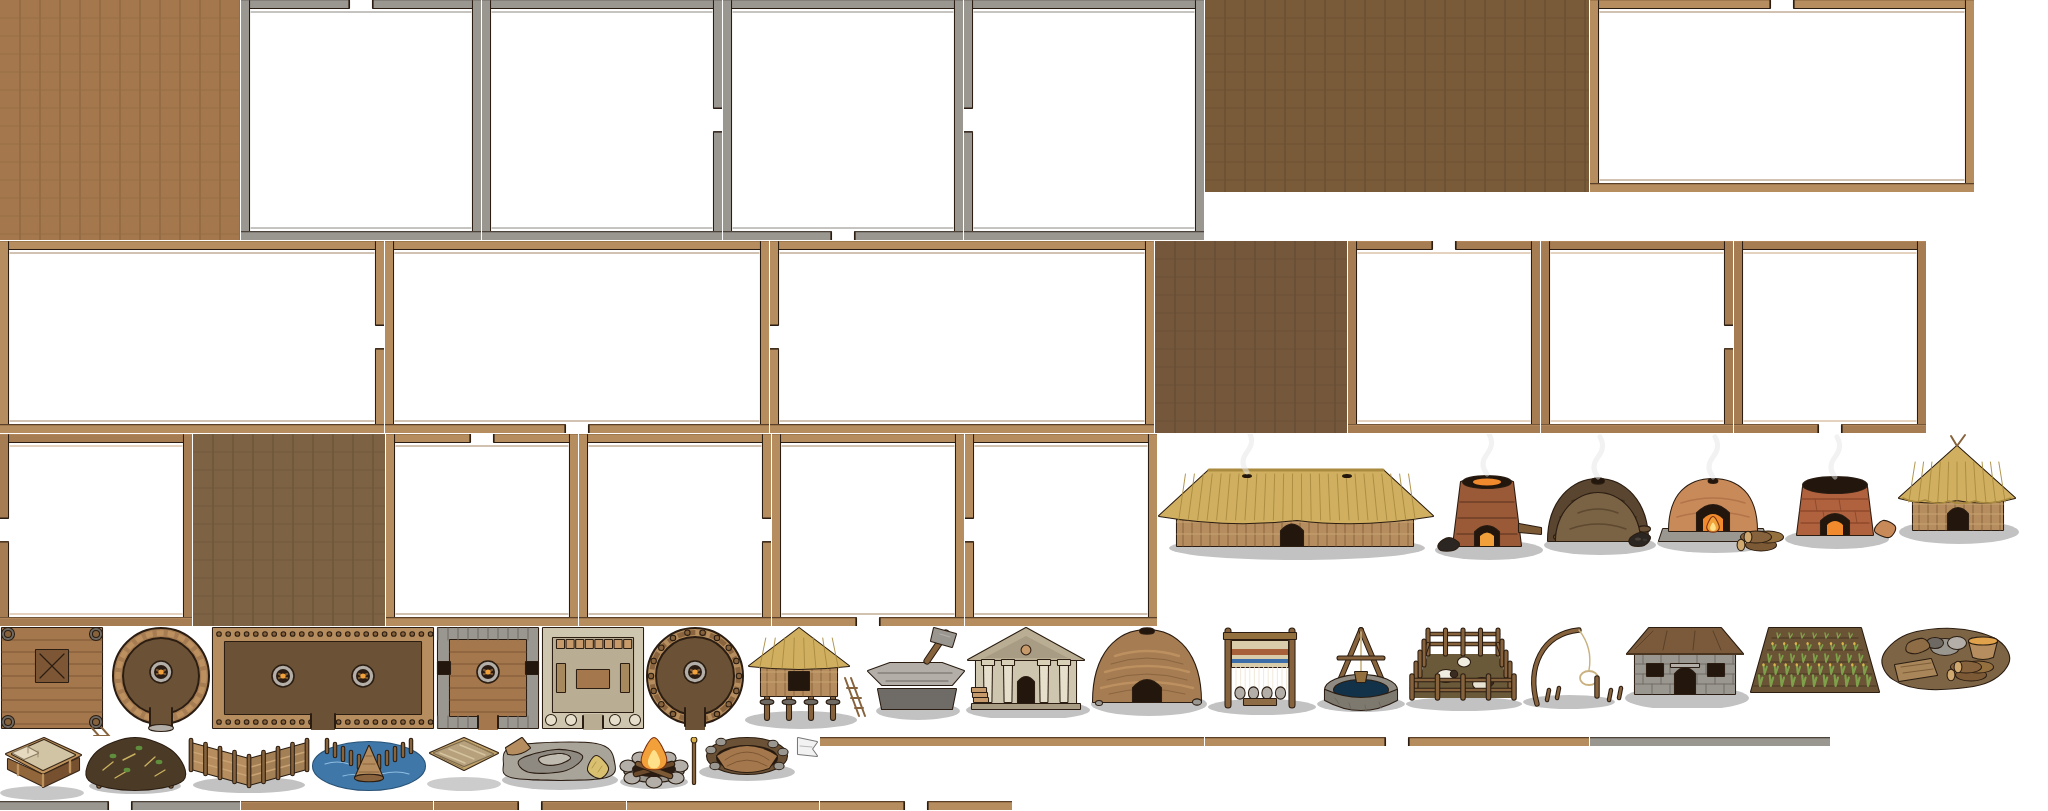
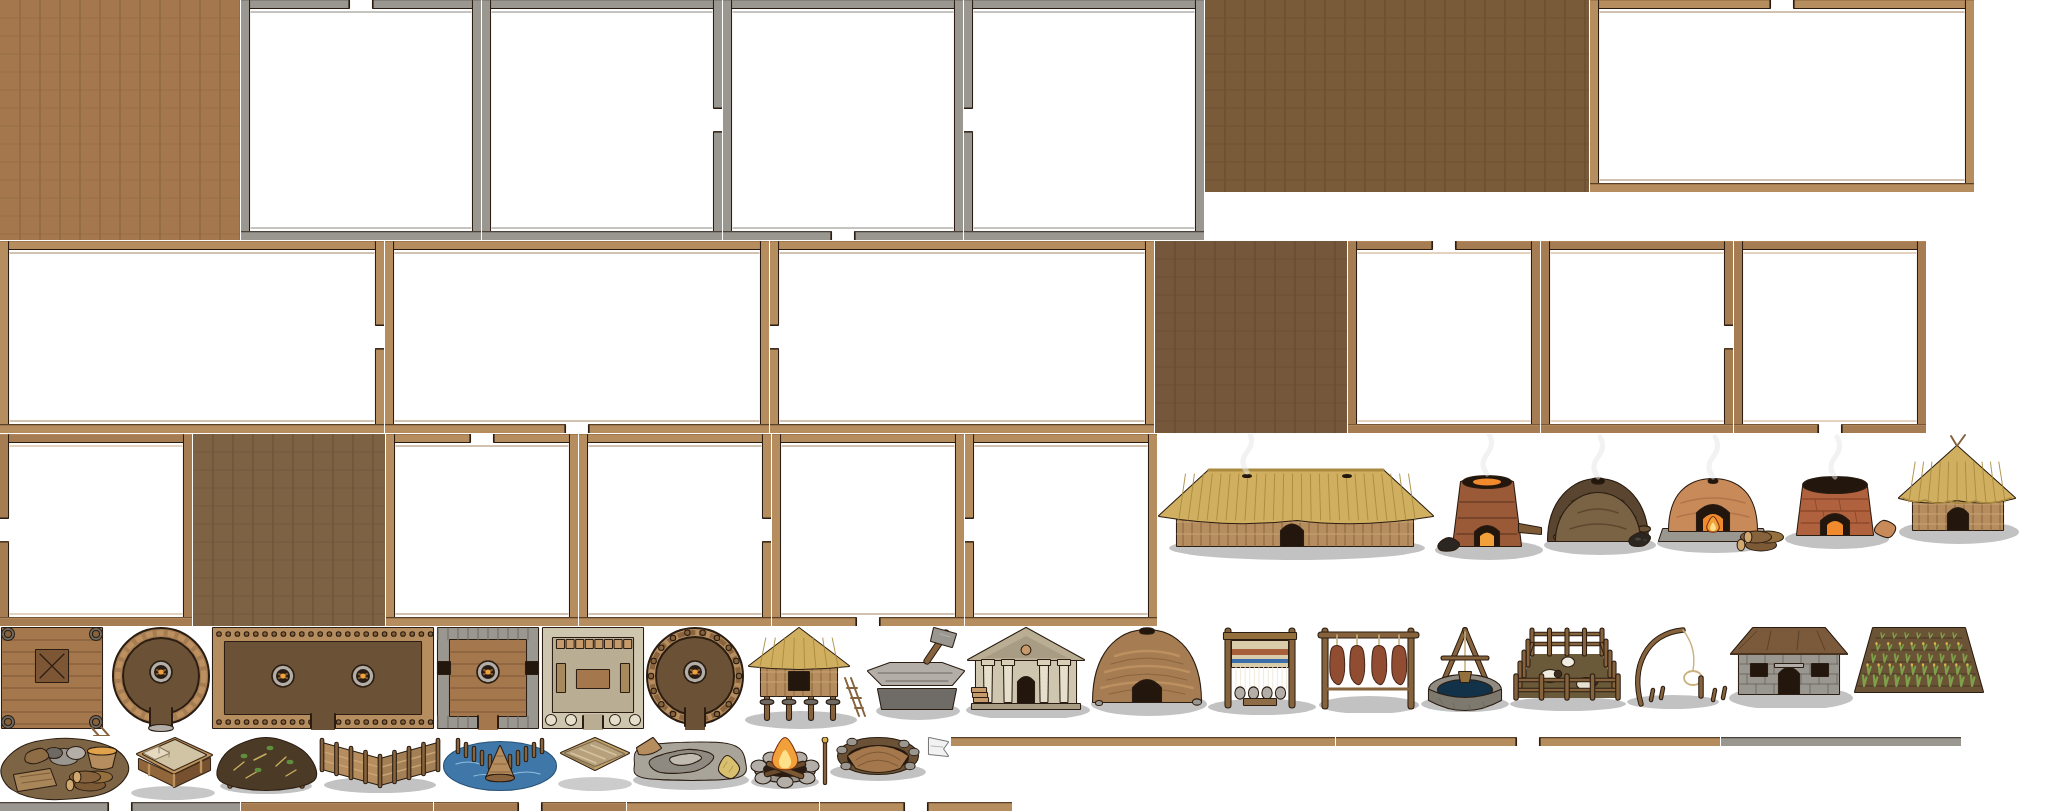
m15: preserve meat and fish on a working drying rack

diff --git a/src/sim/__tests__/preserving.test.ts b/src/sim/__tests__/preserving.test.ts
@@ -1,0 +1,84 @@
+import { describe, expect, it, vi } from 'vitest';
+import { Brain } from '../ai/Brain.ts';
+import { Simulation } from '../core/Simulation.ts';
+import { Building, BUILDINGS } from '../entities/Building.ts';
+import { Inventory, ITEMS } from '../entities/Item.ts';
+import { toCheckpointRecord } from '../persistence/CheckpointRecords.ts';
+
+function fixture() {
+  const sim = new Simulation({ seed: 'drying-rack', world: { width: 48, height: 48 },
+    population: { bands: 1, peoplePerBand: 4 } });
+  sim.possessFirst(); const person = sim.player!;
+  person.knownTech.add('preserving'); person.skills.cook = 100;
+  person.needs.hunger = person.needs.thirst = person.needs.cold = person.needs.fatigue = 0;
+  for (const [item, count] of person.inventory.entries()) person.inventory.remove(item, count);
+  const rack = new Building(BUILDINGS.drying_rack!, Math.floor(person.x), Math.floor(person.y), person.bandId, sim.ids);
+  rack.complete = true; rack.durability = rack.def.workTicks;
+  sim.buildings.push(rack); sim.buildingsById.set(rack.id, rack); sim.buildingHash.insert(rack);
+  return { sim, person, rack };
+}
+
+describe('drying on a physical rack', () => {
+  it('keeps the same food nutrition while losing ten times less to spoilage', () => {
+    const inventory = new Inventory();
+    for (const [raw, dried] of [['meat', 'dried_meat'], ['fish', 'dried_fish']] as const) {
+      expect(ITEMS[dried]!.spoilTicks).toBe(ITEMS[raw]!.spoilTicks * 10);
+      expect(ITEMS[dried]!.nutrition).toBe(ITEMS[raw]!.nutrition);
+      inventory.add(raw, 100); inventory.add(dried, 100);
+    }
+    const loss = new Map(inventory.spoil(240, () => 1, false));
+    expect(loss.get('dried_meat')).toBeCloseTo(loss.get('meat')! / 10);
+    expect(loss.get('dried_fish')).toBeCloseTo(loss.get('fish')! / 10);
+  });
+
+  it('dries meat and fish at the rack, consumes each input once and persists the station', () => {
+    const { sim, person, rack } = fixture();
+    for (const [raw, dried] of [['meat', 'dried_meat'], ['fish', 'dried_fish']] as const) {
+      person.inventory.add(raw, 2);
+      expect(sim.order(person, 'craft', { recipeId: dried, buildingId: rack.id })).toBe(true);
+      for (let tick = 0; tick < 1000 && person.inventory.count(dried) < 2; tick++) {
+        person.needs.hunger = person.needs.thirst = 0; sim.step();
+      }
+      expect(person.inventory.count(dried)).toBe(2);
+      expect(person.inventory.count(raw)).toBe(0);
+    }
+    const loaded = Simulation.fromCheckpointRecord(JSON.parse(JSON.stringify(toCheckpointRecord(sim))));
+    expect(loaded.buildingsById.get(rack.id)?.def.id).toBe('drying_rack');
+    expect(loaded.peopleById.get(person.id)?.inventory.count('dried_fish')).toBe(2);
+  });
+
+  it('does not autonomously preserve until spoilage is believed and requires a reachable station', () => {
+    const { sim, person, rack } = fixture();
+    person.isPlayer = false; person.action = 'idle'; person.order = null;
+    person.inventory.add('meat', 2);
+    const brain = (sim as unknown as { brain: Brain }).brain, score = brain.score.bind(brain);
+    let checked = false;
+    const spy = vi.spyOn(brain, 'score').mockImplementation((actor, ctx) => {
+      if (actor !== person || checked) return score(actor, ctx);
+      checked = true;
+      expect(score(actor, ctx).found.recipe).not.toBe('dried_meat');
+      person.beliefs.learn('spoils:meat', 1, 1, 'seen', sim.time.tick);
+      expect(score(actor, ctx).found.recipe).toBe('dried_meat');
+      expect(score(actor, ctx).found.craftStation).toBe(rack);
+      rack.durability = 0;
+      expect(score(actor, ctx).found.recipe).not.toBe('dried_meat');
+      rack.durability = rack.def.workTicks;
+      rack.complete = false;
+      expect(score(actor, ctx).found.recipe).not.toBe('dried_meat');
+      return score(actor, ctx);
+    });
+    try { for (let tick = 0; tick < 30 && !checked; tick++) sim.step(); expect(checked).toBe(true); }
+    finally { spy.mockRestore(); }
+  });
+
+  it('reports a ruined rack before consuming the raw food', () => {
+    const { sim, person, rack } = fixture(); person.inventory.add('meat', 2);
+    rack.durability = 0;
+    expect(sim.order(person, 'craft', { recipeId: 'dried_meat', buildingId: rack.id })).toBe(true);
+    sim.step();
+    expect(person.inventory.count('meat')).toBe(2);
+    expect(person.inventory.count('dried_meat')).toBe(0);
+    expect(sim.interruptions.some(notice => notice.personId === person.id &&
+      notice.reason === 'no_station_drying_rack')).toBe(true);
+  });
+});

diff --git a/e2e/preserving.spec.ts b/e2e/preserving.spec.ts
@@ -1,0 +1,44 @@
+import { mkdirSync } from 'node:fs';
+import { test, expect } from '@playwright/test';
+
+test('a physical drying rack makes durable food and appears in the world', async ({ page }) => {
+  const errors: string[] = []; page.on('pageerror', error => errors.push(error.message));
+  await page.goto('/?seed=e2e-preserving&skipIntro=1&defaults=1&lang=es');
+  await expect(page.locator('.hud-clock')).not.toBeEmpty({ timeout: 15_000 });
+  await page.locator('.hud-button', { hasText: 'Pausa' }).click();
+  await page.waitForFunction(() => !!(window as any).__dynasty?.renderer?.art);
+  const made = await page.evaluate(() => {
+    const d = (window as any).__dynasty, sim = d.sim, person = sim.player;
+    person.knownTech.add('preserving'); sim.knownTech.add('preserving'); person.skills.cook = 100;
+    sim.time.tick = sim.config.time.ticksPerDay / 2;
+    let rack: any = null;
+    for (let y = Math.floor(person.y) - 5; y <= person.y + 5 && !rack; y++) {
+      for (let x = Math.floor(person.x) - 5; x <= person.x + 5 && !rack; x++) {
+        rack = sim.place('drying_rack', x, y, person.bandId);
+      }
+    }
+    if (!rack) throw new Error('No rack site');
+    rack.complete = true; rack.durability = rack.def.workTicks;
+    person.x = rack.centerX; person.y = rack.centerY;
+    person.targetX = person.x; person.targetY = person.y;
+    person.inventory.add('meat', 2); person.inventory.add('fish', 2);
+    person.needs.cold = person.needs.fatigue = 0;
+    for (const recipeId of ['dried_meat', 'dried_fish']) {
+      if (!sim.order(person, 'craft', { recipeId, buildingId: rack.id })) throw new Error(sim.lastRefusal);
+      for (let tick = 0; tick < 1000 && person.inventory.count(recipeId) < 2; tick++) {
+        person.needs.hunger = person.needs.thirst = 0; sim.step();
+      }
+    }
+    d.camera.zoom = 5; d.camera.snapTo(rack.centerX, rack.centerY); d.camera.following = false;
+    d.renderer.fogEnabled = false; d.renderer.interpolator.clear();
+    return { meat: person.inventory.count('dried_meat'), fish: person.inventory.count('dried_fish') };
+  });
+  expect(made).toEqual({ meat: 2, fish: 2 });
+  await page.locator('.hud-tab[data-tab="kit"]').click();
+  await expect(page.locator('.hud-panel')).toContainText('Carne seca');
+  await expect(page.locator('.hud-panel')).toContainText('Pescado seco');
+  const shots = process.env.DYNASTY_CAPTURE_DIR ?? 'artifacts/screenshots/m15-phase15b-drying-2026-10-10';
+  mkdirSync(shots, { recursive: true });
+  await page.screenshot({ path: `${shots}/01-secadero-y-comida-seca.png` });
+  expect(errors).toEqual([]);
+});

diff --git a/src/sim/knowledge/Tech.ts b/src/sim/knowledge/Tech.ts
@@ -201,6 +201,7 @@ export const TECHS = [
   'ploughshare',
   // M15 phase 35: physical transport and its journey policy ship together.
   'sledge', 'pack_animals', 'horse_riding', 'sail',
+  'preserving',
 ] as const;
 export type Tech = (typeof TECHS)[number];
 
@@ -464,6 +465,15 @@ export interface TechDef {
  * catch.
  */
 export const TECH: Record<Tech, TechDef> = {
+  preserving: {
+    id: 'preserving', label: 'Preserving food', domain: 'fire',
+    age: 'mesolithic', firstKnown: 'Mesolithic', kind: 'device',
+    requires: ['cooking', 'cordage'], difficulty: 0.35, skill: 'cook',
+    prototype: { meat: 1, rope: 1, sticks: 2 }, maxRefinement: 2,
+    sparks: [{ needs: [{ kind: 'knows', tech: 'cooking' }, { kind: 'holding', item: 'meat' }],
+      weight: 0.6, story: 'hung strips of meat in the air and found that they kept longer' }],
+    description: 'Dry meat and fish on a rack so they keep longer.',
+  },
   firemaking: {
     id: 'firemaking', label: 'Firemaking', domain: 'fire',
     age: 'middle_palaeolithic', firstKnown: 'about 400,000 years ago',
@@ -2578,6 +2588,8 @@ export interface TechEffect {
 }
 
 export const TECH_EFFECTS: Record<Tech, TechEffect> = {
+  preserving: { summary: 'A drying rack makes meat and fish that spoil ten times more slowly.',
+    site: 'BUILDINGS.drying_rack and RECIPES.dried_meat/dried_fish; Inventory.spoil reads their spoilTicks' },
   spear: {
     summary: 'A blade at the end of a shaft: harder blows, first strikes, and more fish when harpooned.',
     site: 'ActionSystem.doAttack, doHunt and doHarvest; RECIPES.spear',
@@ -3350,10 +3362,9 @@ export function warmthFrom(person: Person): number {
  * marker of the period, so the rung is honest as well as useful.
  *
  * **The Mesolithic asks for `netting` where the plan asked for `preserving`**,
- * because `preserving` is the one node of M8.1's fourteen that was deliberately
- * held back — see `docs/next-steps.md` §0b, spoilage is built and switched off.
- * Nets and the fish they take are as Mesolithic as anything in the tier, and
- * the rung can be revisited if spoilage is ever switched on.
+ * because preserving was held back when this era contract was pinned. M15
+ * now supplies actual drying, but default spoilage activation still awaits
+ * measurement. Keep the existing era gate until that separate activation.
  */
 export interface EraDef {
   /** One of `AGES`: the ladder and `TechDef.age` share a vocabulary. */

diff --git a/src/sim/entities/Recipe.ts b/src/sim/entities/Recipe.ts
@@ -56,6 +56,8 @@ export interface RecipeDef {
   ingredientOptions?: Record<string, number>[];
   /** One of these owned tools is required and retained after work completes. */
   toolOptions?: string[];
+  /** Preservation demand is learned from actual loss of this raw input. */
+  preservesInput?: string;
   output: Record<string, number>;
   /**
    * A `BUILDINGS` id this must be made at, or undefined for anywhere.
@@ -782,6 +784,12 @@ export const RECIPES: Record<string, RecipeDef> = {
   sewn_tunic: { id: 'sewn_tunic', label: 'Sewn tunic', icon: '👕', tech: 'tailoring', skill: 'build',
     workTicks: 130, ingredients: { hide: 3, sinew: 2 }, toolOptions: ['needle'],
     output: { sewn_tunic: 1 }, keep: 1 },
+  dried_meat: { id: 'dried_meat', label: 'Dry meat', icon: '🥩', tech: 'preserving', skill: 'cook',
+    workTicks: 120, ingredients: { meat: 2 }, output: { dried_meat: 2 }, station: 'drying_rack',
+    preservesInput: 'meat', keep: 4 },
+  dried_fish: { id: 'dried_fish', label: 'Dry fish', icon: '🐟', tech: 'preserving', skill: 'cook',
+    workTicks: 120, ingredients: { fish: 2 }, output: { dried_fish: 2 }, station: 'drying_rack',
+    preservesInput: 'fish', keep: 4 },
 };
 
 /** Every item any recipe can produce. Used by the "is this reachable?" tests. */

diff --git a/art/src/props/items.ts b/art/src/props/items.ts
@@ -6,6 +6,12 @@ export type ItemArt = [id: string, label: string, tech: string, draw: () => stri
 export const WOOD = '#86633c', WOOD_D = '#3a2716', STONE = '#a9adb0', STONE_D = '#3d4244', BONE = '#e6dcc0', BONE_D = '#7a6d4e', CORD = '#c9b27f';
 const rot = (inner: string, deg: number, cx = 32, cy = 32): string => `<g transform="rotate(${deg} ${cx} ${cy})">${inner}</g>`;
 export const ITEMS: ItemArt[] = [
+  ['dried_meat', 'Carne seca', 'preserving', () =>
+    [18, 32, 46].map(x => shape(smooth([[x - 5, 13], [x + 5, 10], [x + 7, 42], [x + 2, 53], [x - 6, 45]]), '#914d32', '#4a2719')).join('')],
+  ['dried_fish', 'Pescado seco', 'preserving', () =>
+    shape(smooth([[8, 32], [19, 20], [37, 21], [49, 32], [37, 44], [19, 43]]), '#a3a086', '#4f4a32')
+    + shape(poly([[46, 32], [58, 20], [58, 44]]), '#807b60', '#4f4a32')
+    + ell(18, 29, 2, 2, '#27251b') + stroke('M26,24L26,39M34,24L34,39', '#665e43', 1.2)],
   ['hide_cape', 'Capa de piel', 'clothing', () =>
     shape(smooth([[20, 10], [32, 16], [44, 10], [58, 48], [44, 55], [20, 55], [6, 48]]), '#aa875a', '#513a24')
     + stroke('M20,10Q32,22 44,10M32,18L32,49', CORD, 1.6)],

diff --git a/src/sim/ai/Brain.ts b/src/sim/ai/Brain.ts
@@ -3681,6 +3681,8 @@ export class Brain {
       const wantsGarment = garment && person.needs.cold > 10 && garment.warmth > currentWarmth &&
         person.inventory.count(output) < recipe.keep;
       const forSelf = ITEMS[output]?.furniture ? recipe.id === furnitureRecipe :
+        recipe.preservesInput ? person.beliefs.expect('spoils:' + recipe.preservesInput).value > 0 &&
+          person.inventory.count(output) < recipe.keep :
         garment ? wantsGarment : isTorchRecipe ? wantsTorch : person.inventory.count(output) < recipe.keep;
       const forSite = site !== null && site.stillNeeds(output) > 0;
       if (!forSelf && !forSite) continue;
@@ -3701,7 +3703,7 @@ export class Brain {
         const stationId = recipe.station;
         station = this.pickBest(
           ctx.buildings.filter(b =>
-            b.complete && b.def.id === stationId && this.canUse(person, b, ctx)),
+            b.complete && !b.ruined && b.def.id === stationId && this.canUse(person, b, ctx)),
           b => -person.distanceTo({ x: b.centerX, y: b.centerY })
         );
         if (!station) continue;

diff --git a/art/src/buildings/buildings.ts b/art/src/buildings/buildings.ts
@@ -42,6 +42,14 @@ const flame = (x: number, y: number, s = 1): string => shape(smooth([[x, y - 20 
 const smoke = (x: number, y: number): string => `<path d="M${x},${y}Q${x - 8},${y - 10} ${x},${y - 20}T${x + 2},${y - 40}" fill="none" stroke="rgba(230,230,230,0.5)" stroke-width="5" stroke-linecap="round"/>`;
 
 export const BUILDINGS: BuildingArt[] = [
+  ['drying_rack', 'Secadero', 'preserving', 128, () =>
+    gShadow(64, 104, 50, 9)
+    + limb([[20, 105], [20, 30]], 5, WOOD, B.L)
+    + limb([[106, 105], [106, 30]], 5, WOOD, B.L)
+    + limb([[16, 34], [111, 34]], 5, WOOD, B.L)
+    + [32, 52, 74, 94].map(x => stroke(`M${x},34L${x},49`, CORD, 1.6)
+      + shape(smooth([[x - 5, 48], [x + 5, 48], [x + 7, 70], [x + 2, 83], [x - 6, 74]]), '#914d32', '#4a2719')).join('')
+    + stroke('M20,88L106,88', WOOD, 3)],
   ['mud_hut', 'Choza de barro', 'wattle_daub / hoy: “mud_hut”', 144, () =>
     gShadow(74, 100, 58, 12)
     + shape('M18,98C18,50 42,26 72,26C102,26 126,50 126,98Z', B.mud, B.L)

diff --git a/src/sim/entities/Item.ts b/src/sim/entities/Item.ts
@@ -462,6 +462,12 @@ export const ITEMS: Record<string, ItemDef> = {
     class: 'small', hand: { perHand: 1, perArms: 1, hands: 1 }, garment: { slot: 'cloak', warmth: 0.25 } },
   sewn_tunic: { id: 'sewn_tunic', label: 'Sewn tunic', nutrition: 0, spoilTicks: 0, baseValue: 9,
     class: 'small', hand: { perHand: 1, perArms: 1, hands: 1 }, garment: { slot: 'torso', warmth: 0.30 } },
+  dried_meat: { id: 'dried_meat', label: 'Dried meat', nutrition: 30, spoilTicks: 12000,
+    macros: { fat: 0.45, protein: 0.55, carb: 0 }, baseValue: 8,
+    class: 'food', hand: { perHand: 3, perArms: 8, hands: 1 } },
+  dried_fish: { id: 'dried_fish', label: 'Dried fish', nutrition: 18, spoilTicks: 8000,
+    macros: { fat: 0.35, protein: 0.65, carb: 0 }, baseValue: 7,
+    class: 'food', hand: { perHand: 3, perArms: 8, hands: 1 } },
 };
 
 export class Inventory {

diff --git a/src/i18n/es/tech.ts b/src/i18n/es/tech.ts
@@ -1,5 +1,9 @@
 /** Spanish for tech. Keys are the English templates; see `i18n.ts`. */
 export const ES_TECH: Record<string, string> = {
+  'Preserving food': 'Conservar comida',
+  'Dry meat and fish on a rack so they keep longer.': 'Secar carne y pescado en un secadero para que duren más.',
+  'A drying rack makes meat and fish that spoil ten times more slowly.': 'El secadero produce carne y pescado que se estropean diez veces más despacio.',
+  'hung strips of meat in the air and found that they kept longer': 'colgó tiras de carne al aire y descubrió que duraban más',
   "Firemaking": "Hacer fuego",
   "about 400,000 years ago": "hace unos 400.000 años",
   "about 15,000 years ago": "hace unos 15.000 años",

diff --git a/src/sim/entities/Building.ts b/src/sim/entities/Building.ts
@@ -741,6 +741,12 @@ export const BUILDINGS: Record<string, BuildingDef> = {
       'A stack of deadwood sealed under turf and left to smoulder. What comes ' +
       'out is black, light, and burns hotter than the wood that went in.',
   },
+  drying_rack: {
+    id: 'drying_rack', label: 'Drying rack', icon: '🥩', width: 2, height: 1,
+    materials: { wood: 2, rope: 2 }, workTicks: 120, shelter: 0, storage: 0,
+    station: true, requiresTech: 'preserving',
+    description: 'An open wooden frame for drying strips of meat and fish.',
+  },
 };
 
 // --- M15 phase 26c: designs that move ground -----------------------------------

diff --git a/src/sim/ai/ActionCatalog.ts b/src/sim/ai/ActionCatalog.ts
@@ -1634,7 +1634,7 @@ function craftOption(
   const label = recipe.station === undefined
     ? t('Make {thing}', { thing: aNoun(recipe.label.toLowerCase()) })
     : t('Make {thing}', { thing: t(recipe.label).toLowerCase() });
-  if (recipe.station !== undefined && !station) {
+  if (recipe.station !== undefined && (!station || !station.complete || station.ruined)) {
     // The station is missing, and saying which one is the whole point: a greyed
     // entry reading "you cannot do that" is the refusal channel failing at the
     // one moment it is easiest to get right.

diff --git a/src/i18n/es/data.ts b/src/i18n/es/data.ts
@@ -15,6 +15,12 @@ export const ES_DATA: Record<string, string> = {
   "Fat torch": "Antorcha de grasa",
   "Hide cape": "Capa de piel",
   "Sewn tunic": "Túnica cosida",
+  'Dried meat': 'Carne seca',
+  'Dried fish': 'Pescado seco',
+  'Dry meat': 'Secar carne',
+  'Dry fish': 'Secar pescado',
+  'Drying rack': 'Secadero',
+  'An open wooden frame for drying strips of meat and fish.': 'Un armazón abierto de madera para secar tiras de carne y pescado.',
   "Fish": "Pescado",
   "Hide": "Piel",
   "Spear": "Lanza",
